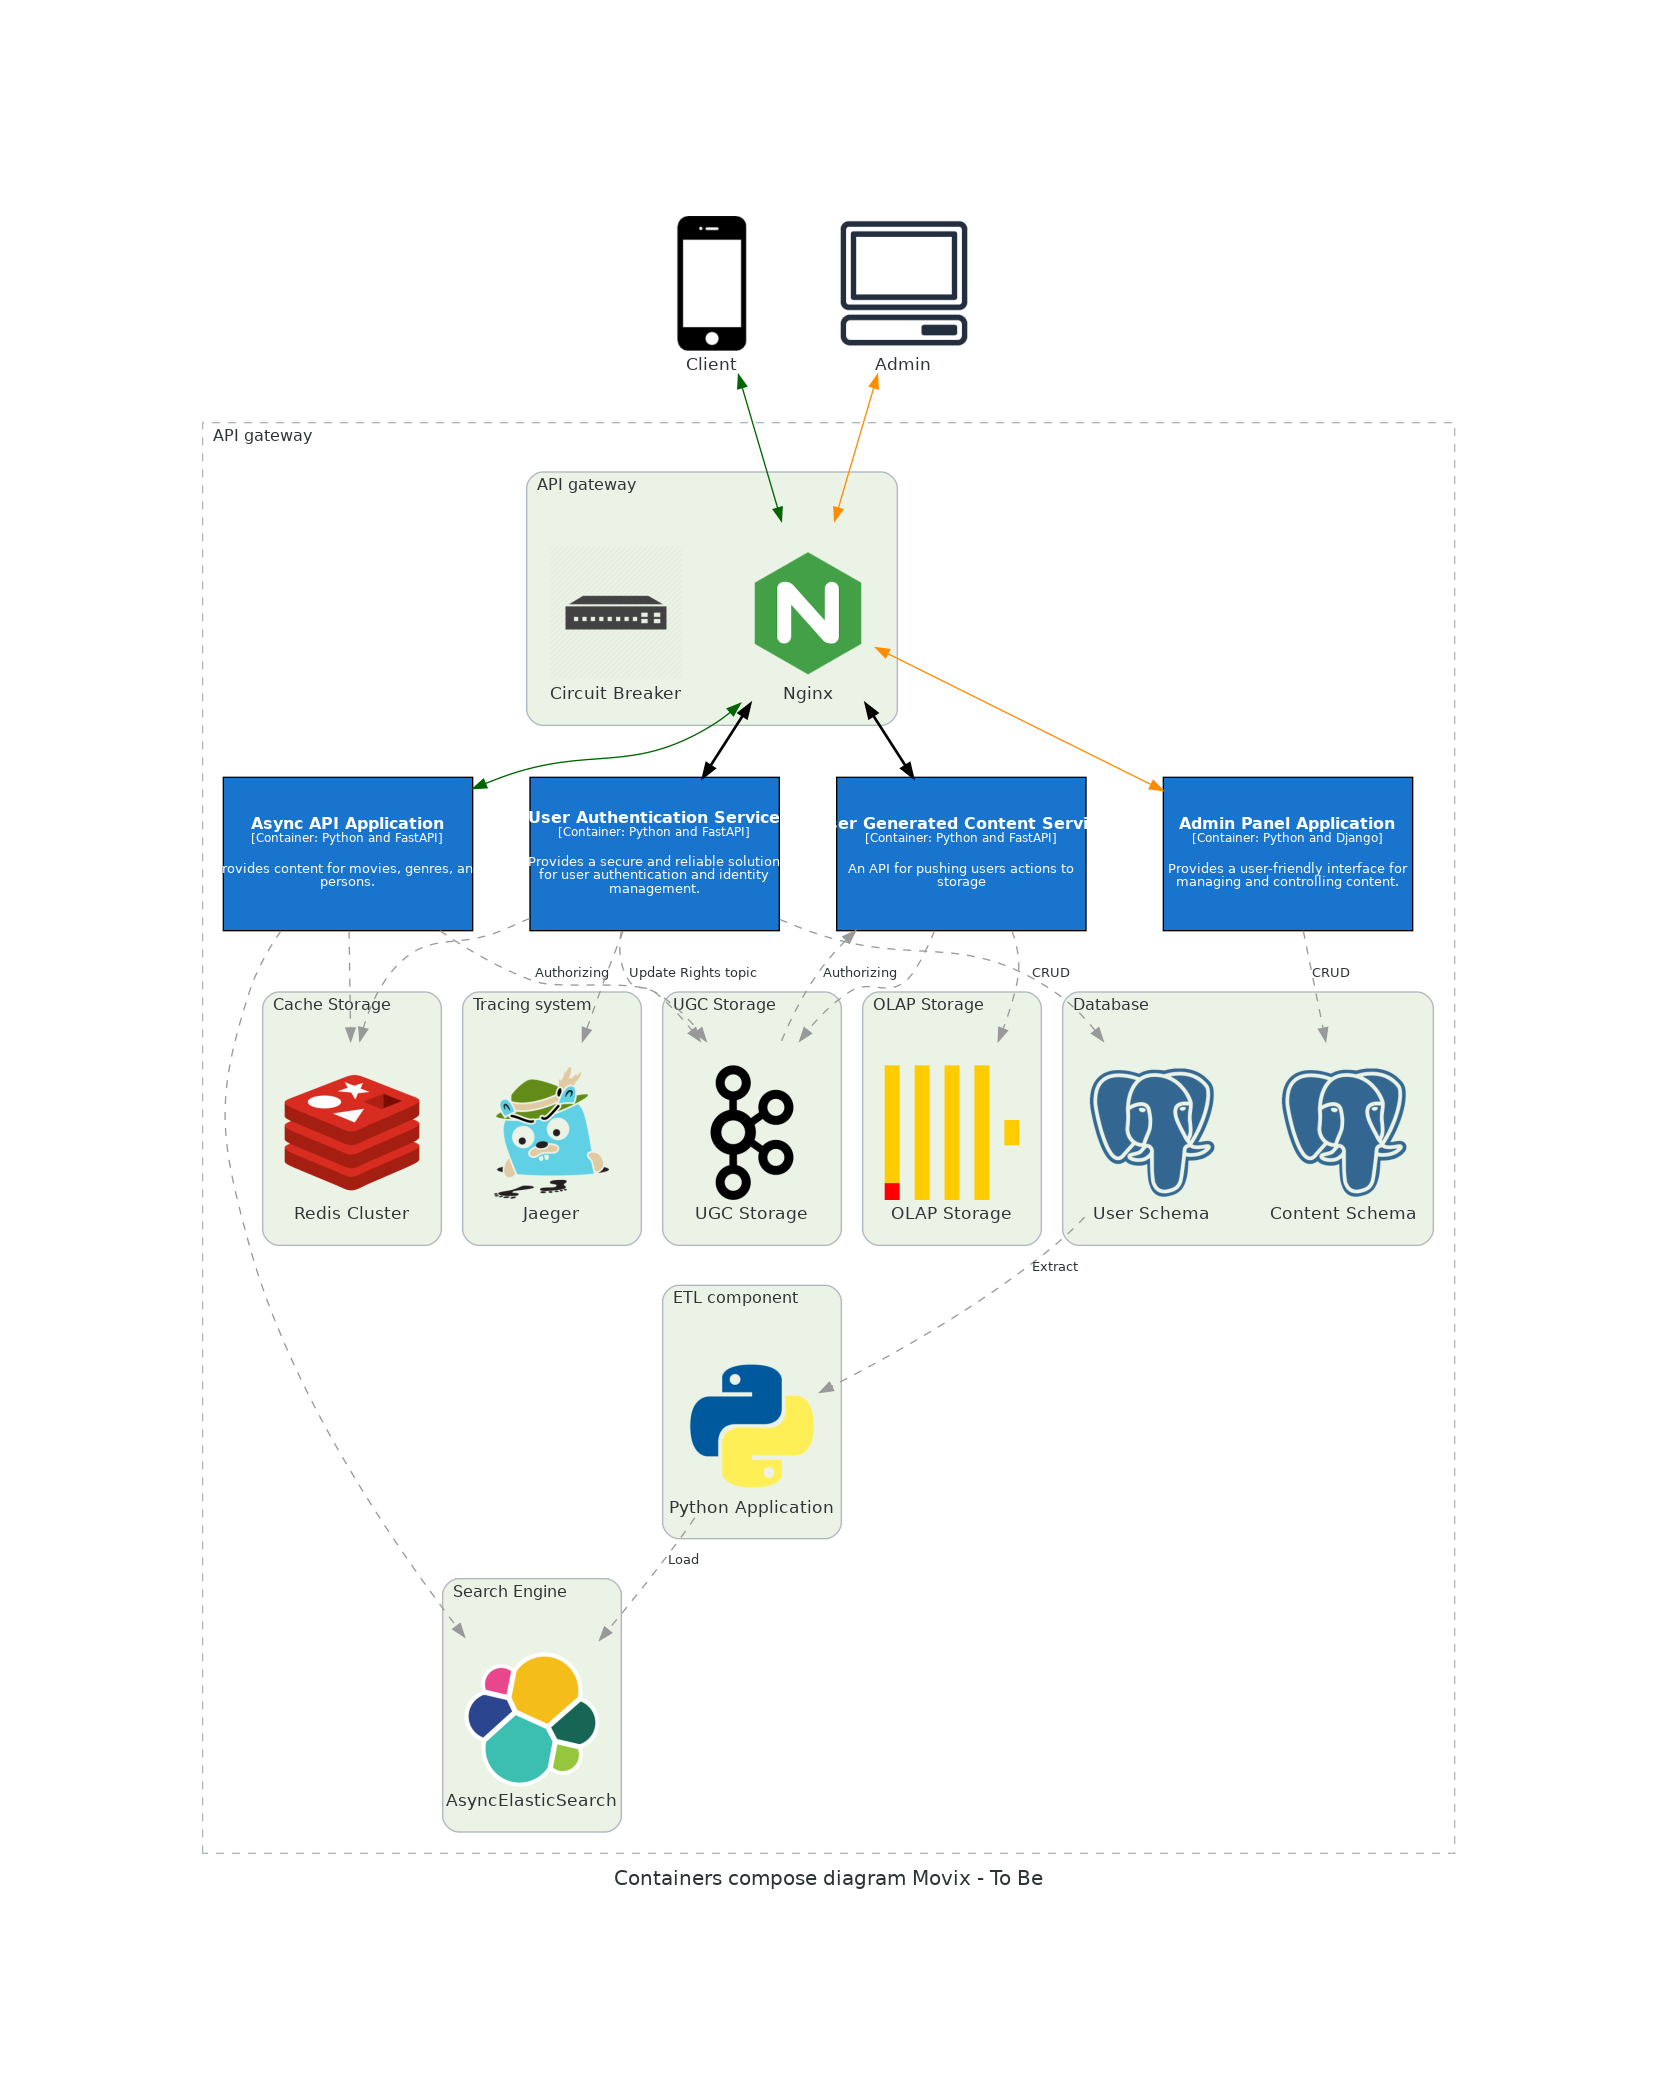
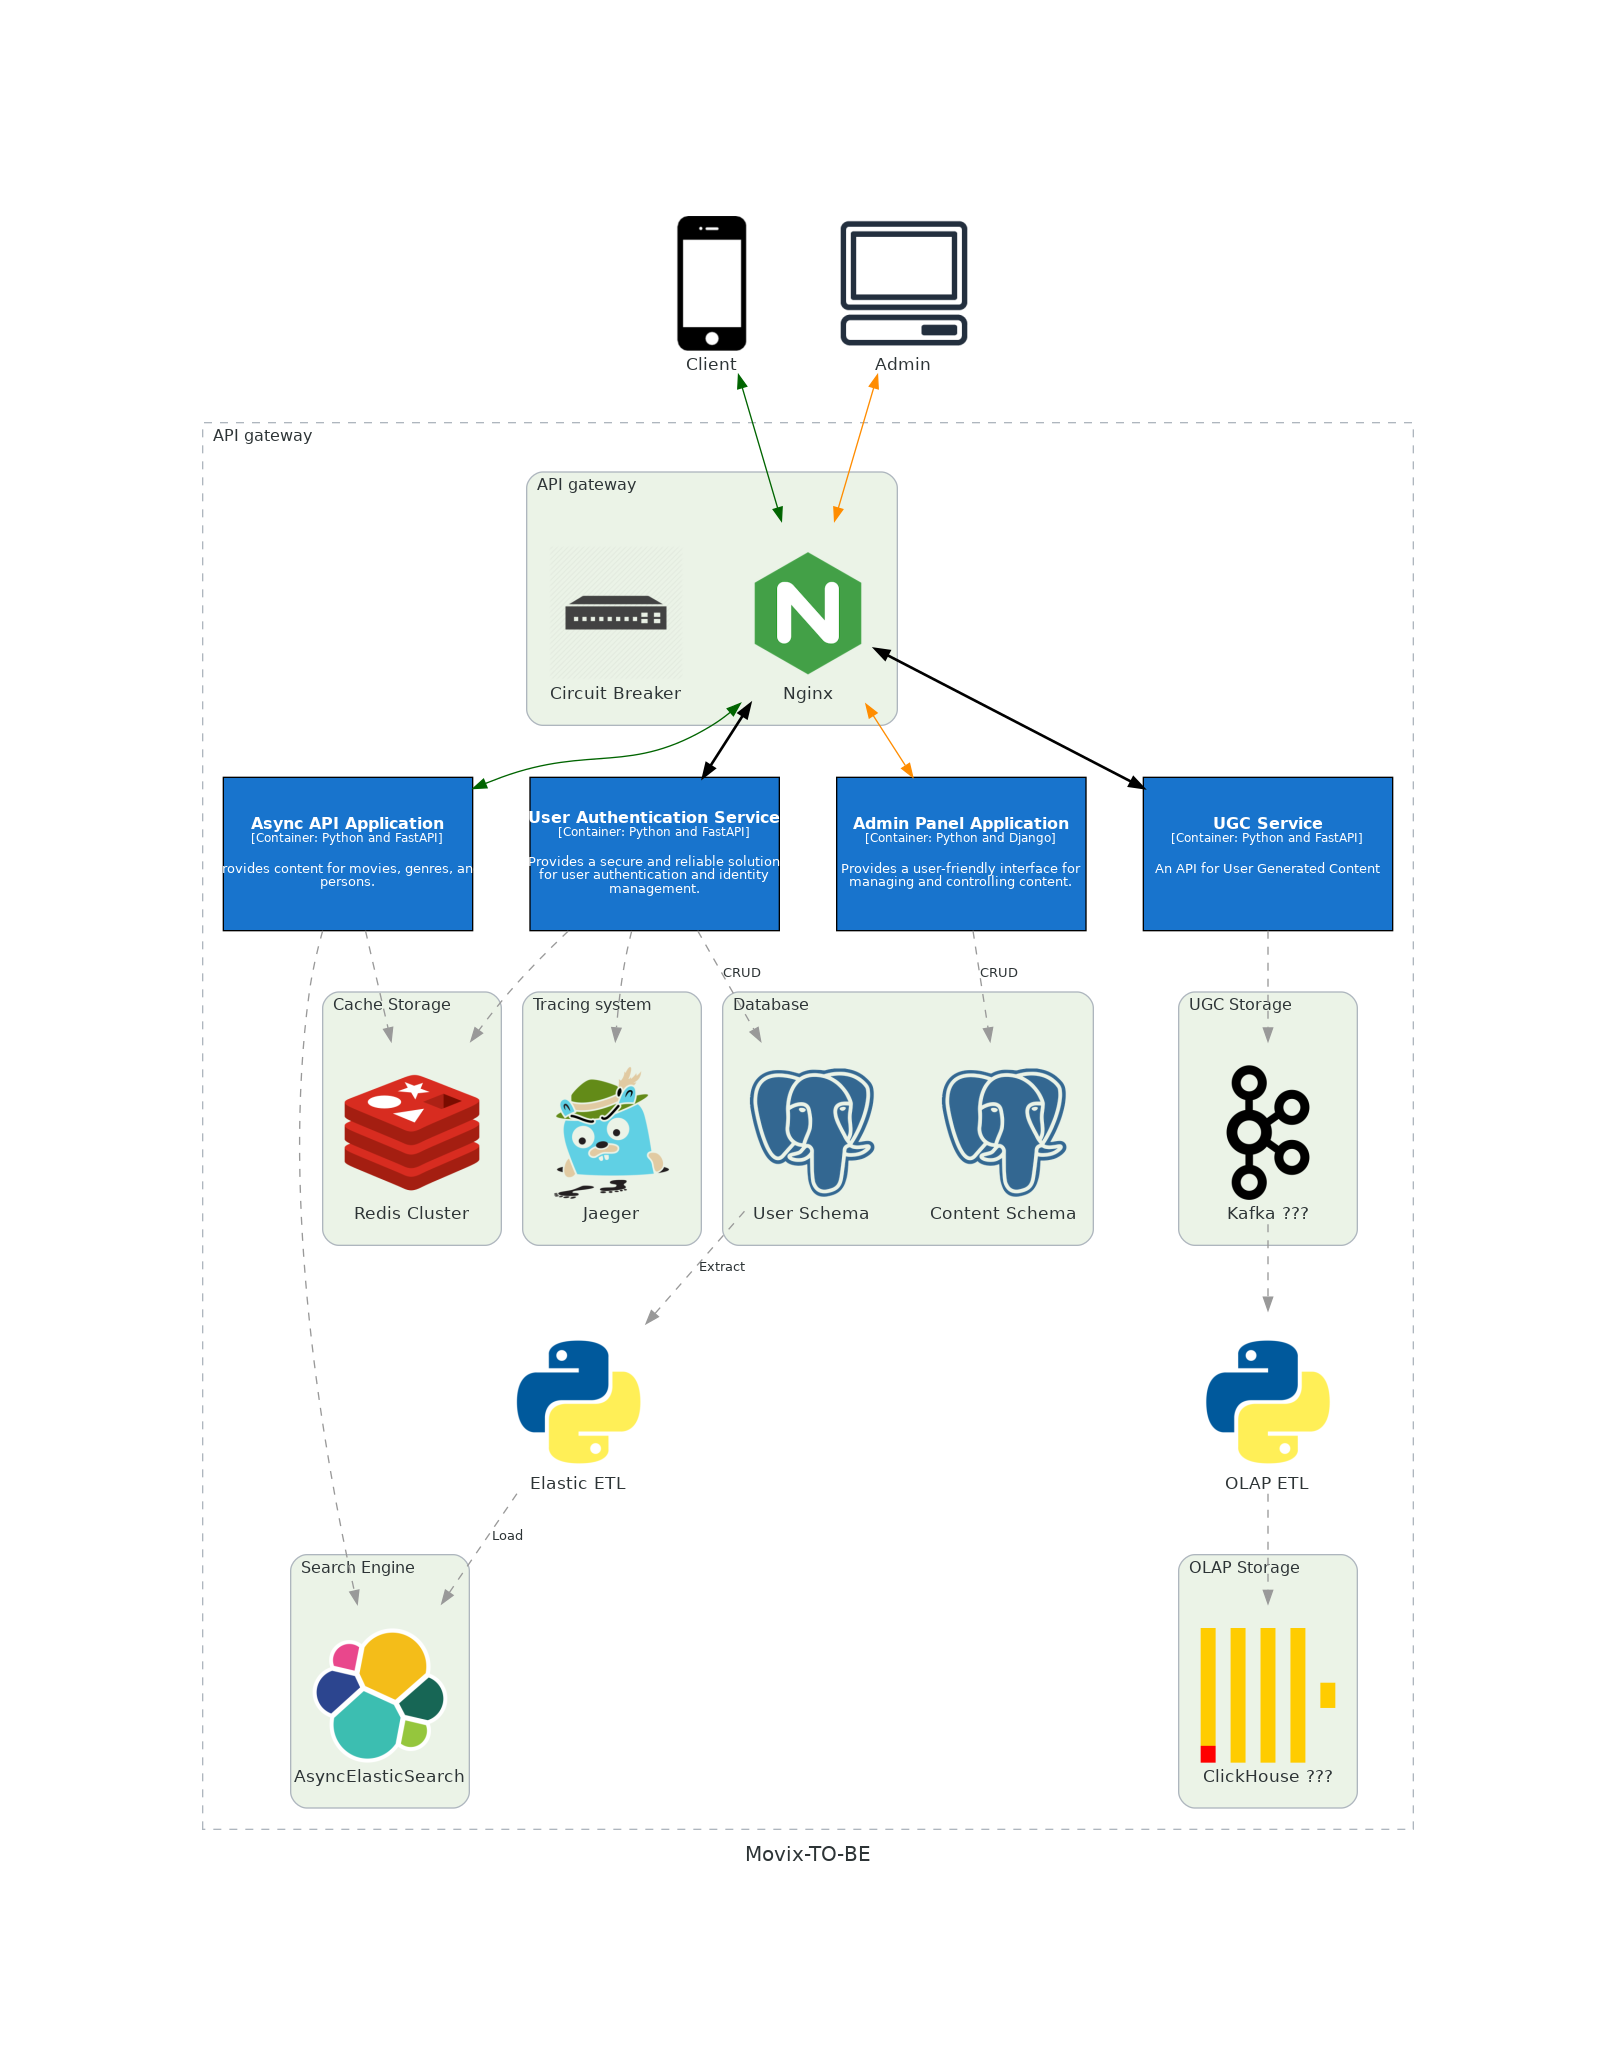
fix/to be (#34)
* fix: improved to-be, ugc

* feat: added schemes to README.md

* fix: broken url in README.md

* fix: broken urls in README.md

* fix: broken urls in README.md

* feat: added movix-etl schema to README.md

diff --git a/architecture/movix-to-be.py b/architecture/movix-to-be.py
@@ -16,7 +16,7 @@ graph_attr = {
 }
 
 with Diagram(
-    "Containers compose diagram Movix - To Be",
+    "Movix-TO-BE",
     show=False,
     outformat="png",
     graph_attr=graph_attr,
@@ -50,13 +50,13 @@ with Diagram(
         )
 
         ugc = Container(
-            name="User Generated Content Service",
+            name="UGC Service",
             technology="Python and FastAPI",
-            description="An API for pushing users actions to storage",
+            description="An API for User Generated Content",
         )
 
-        with Cluster("ETL component"):
-            etl = Python("Python Application")
+        etl_elastic = Python("Elastic ETL")
+        etl_olap = Python("OLAP ETL")
 
         with Cluster("Cache Storage"):
             redis = Redis("Redis Cluster")
@@ -66,10 +66,10 @@ with Diagram(
             content_schema = PostgreSQL("Content Schema")
 
         with Cluster("UGC Storage"):
-            ugc_storage = Kafka("UGC Storage")
+            ugc_storage = Kafka("Kafka ???")
 
         with Cluster("OLAP Storage"):
-            olap_storage = ClickHouse("OLAP Storage")
+            olap_storage = ClickHouse("ClickHouse ???")
 
         with Cluster("Search Engine"):
             elastic = Elastic("AsyncElasticSearch")
@@ -85,18 +85,22 @@ with Diagram(
 
     api >> Relationship() >> elastic
     api >> Relationship() >> redis
-    api >> Relationship("Authorizing") >> ugc_storage
 
     auth >> Relationship("CRUD") >> user_schema
-    auth >> Relationship("Update Rights topic") >> ugc_storage
     auth >> Relationship() >> redis
     auth >> Relationship() >> tracing
 
-    ugc << Relationship("Authorizing") << ugc_storage
-    ugc >> Relationship() >> ugc_storage
-    ugc >> Relationship() >> olap_storage
+    (
+        ugc
+        >> Relationship()
+        >> ugc_storage
+        >> Relationship()
+        >> etl_olap
+        >> Relationship()
+        >> olap_storage
+    )
 
     admin_panel >> Relationship("CRUD") >> content_schema
 
-    user_schema >> Relationship("Extract") >> etl
-    etl >> Relationship("Load") >> elastic
+    user_schema >> Relationship("Extract") >> etl_elastic
+    etl_elastic >> Relationship("Load") >> elastic

diff --git a/architecture/movix-ugc.py b/architecture/movix-ugc.py
@@ -1,29 +1,28 @@
 from diagrams import Cluster, Diagram, Edge
 from diagrams.aws.network import Endpoint
-from diagrams.c4 import Container, Database, Relationship, SystemBoundary
+from diagrams.c4 import Container
 from diagrams.onprem.database import ClickHouse
 from diagrams.onprem.network import Nginx
 from diagrams.onprem.queue import Kafka
 
-with Diagram("UGC Service", show=False, direction="TB"):
+with Diagram(
+    "UGC Service", show=False, direction="TB", graph_attr={"splines": "spline"}
+):
     gateway = Nginx("API Gateway")
     with Cluster("API"):
         endpoint = Endpoint("Endpoint")
-        with SystemBoundary("Authentication & Authorization"):
-            token_validator = Container(
-                "TokenValidator", description="Validate token signature"
-            )
-            access_checker = Container(
-                "AccessChecker", description="Retrieve rights list from DB and check"
-            )
-        payload_serializer = Container(
-            "PayloadSerializer", description="Validate and serialize data"
+        token_validator = Container(
+            "Token Validator", description="Validate token signature"
         )
+        payload_serializer = Container(
+            "Payload Serializer", description="Validate and serialize data"
+        )
+        api_kafka = Container("Kafka Producer")
 
     kafka = Kafka("UGC Storage")
 
     with Cluster("UGC ETL"):
-        etl_kafka = Container("KafkaConnector")
+        etl_kafka = Container("Kafka Consumer")
         data_transformer = Container(
             "Transformer", description="Prepare data before loading"
         )
@@ -33,8 +32,7 @@ with Diagram("UGC Service", show=False, direction="TB"):
 
     gateway >> Edge(label="Incoming packet") >> endpoint
 
-    access_checker >> token_validator
-    access_checker << kafka
-    endpoint >> access_checker >> payload_serializer >> kafka
+    endpoint >> token_validator
+    endpoint >> payload_serializer >> api_kafka >> kafka
 
     kafka >> etl_kafka >> data_transformer >> etl_olap >> olap

diff --git a/README.md b/README.md
@@ -12,6 +12,33 @@ This is a project of 7th group of 24th stream of Yandex Practicum for Middle Pyt
 
 Django 4.1, Elasticsearch, Redis, Postgres, FastAPI
 
+### Project Architecture
+
+<details>
+<summary>Scheme of Movix app</summary>
+![movix-as-is](media/movix-as-is.png)
+</details>
+
+<details>
+<summary>Scheme of Movix-admin</summary>
+![movix-admin](media/movix-admin.png)
+</details>
+
+<details>
+<summary>Scheme of Movix-auth</summary>
+![movix-admin](media/movix-auth.png)
+</details>
+
+<details>
+<summary>Scheme of Movix-api</summary>
+![movix-api](media/movix-api.png)
+</details>
+
+<details>
+<summary>Scheme of Movix-etl</summary>
+![movix-etl](media/movix-etl.png)
+</details>
+
 ## How to install
 
 You need to make shure, that ElasticSearch is configured properly on your machine to run this project: [StackOverflow Link](https://stackoverflow.com/questions/51445846/elasticsearch-max-virtual-memory-areas-vm-max-map-count-65530-is-too-low-inc)
